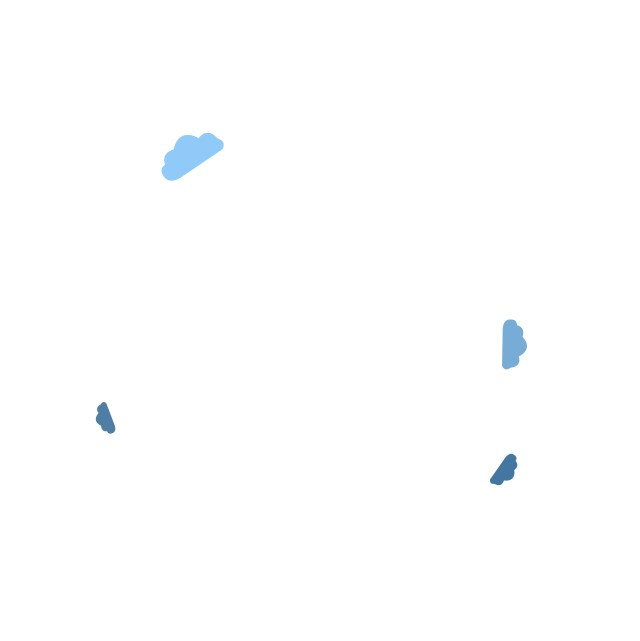
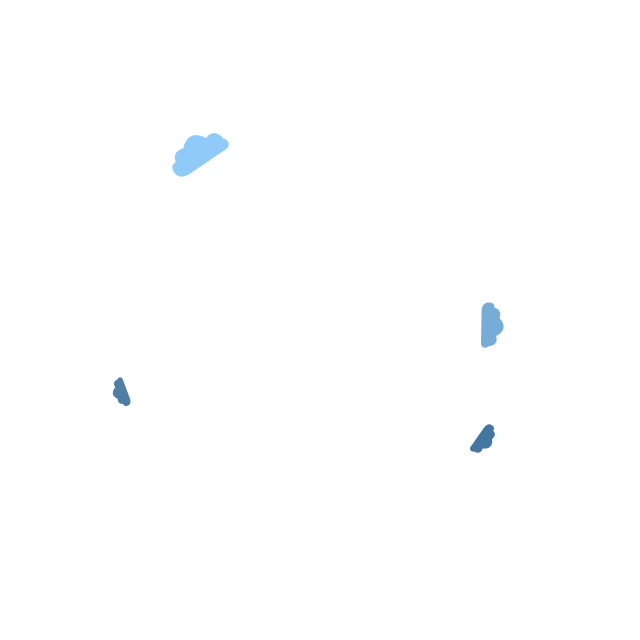
引导页地球动画

diff --git a/tour.css b/tour.css
@@ -193,6 +193,112 @@
   background-size: 300px 300px;
   width: 300px;
   height: 300px;
+  animation-name: myfirst;
+  animation-duration: 35s;
+  animation-timing-function: linear;
+  animation-delay: 0s;
+  animation-iteration-count: infinite;
+  animation-direction: normal;
+  animation-play-state: running;
+  /* Firefox: */
+  -moz-animation-name: myfirst;
+  -moz-animation-duration: 35s;
+  -moz-animation-timing-function: linear;
+  -moz-animation-delay: 0s;
+  -moz-animation-iteration-count: infinite;
+  -moz-animation-direction: normal;
+  -moz-animation-play-state: running;
+  /* Safari and Chrome: */
+  -webkit-animation-name: myfirst;
+  -webkit-animation-duration: 35s;
+  -webkit-animation-timing-function: linear;
+  -webkit-animation-delay: 0s;
+  -webkit-animation-iteration-count: infinite;
+  -webkit-animation-direction: normal;
+  -webkit-animation-play-state: running;
+}
+@keyframes myfirst {
+  0% {
+    transform: rotate(0deg);
+    width: 300px;
+    height: 300px;
+  }
+  25% {
+    transform: rotate(90deg);
+    width: 300px;
+    height: 300px;
+  }
+  50% {
+    transform: rotate(180deg);
+    width: 300px;
+    height: 300px;
+  }
+  75% {
+    transform: rotate(270deg);
+    width: 300px;
+    height: 300px;
+  }
+  100% {
+    transform: rotate(360deg);
+    width: 300px;
+    height: 300px;
+  }
+}
+/* Firefox: */
+@-moz-keyframes myfirst {
+  0% {
+    transform: rotate(0deg);
+    width: 300px;
+    height: 300px;
+  }
+  25% {
+    transform: rotate(90deg);
+    width: 300px;
+    height: 300px;
+  }
+  50% {
+    transform: rotate(180deg);
+    width: 300px;
+    height: 300px;
+  }
+  75% {
+    transform: rotate(270deg);
+    width: 300px;
+    height: 300px;
+  }
+  100% {
+    transform: rotate(360deg);
+    width: 300px;
+    height: 300px;
+  }
+}
+/* Safari and Chrome: */
+@-webkit-keyframes myfirst {
+  0% {
+    transform: rotate(0deg);
+    width: 300px;
+    height: 300px;
+  }
+  25% {
+    transform: rotate(90deg);
+    width: 300px;
+    height: 300px;
+  }
+  50% {
+    transform: rotate(180deg);
+    width: 300px;
+    height: 300px;
+  }
+  75% {
+    transform: rotate(270deg);
+    width: 300px;
+    height: 300px;
+  }
+  100% {
+    transform: rotate(360deg);
+    width: 300px;
+    height: 300px;
+  }
 }
 #earth {
   position: absolute;
@@ -211,6 +317,29 @@
   background-size: 300px 300px;
   width: 300px;
   height: 300px;
+  animation-name: myfirst;
+  animation-duration: 80s;
+  animation-timing-function: linear;
+  animation-delay: 0s;
+  animation-iteration-count: infinite;
+  animation-direction: normal;
+  animation-play-state: running;
+  /* Firefox: */
+  -moz-animation-name: myfirst;
+  -moz-animation-duration: 80s;
+  -moz-animation-timing-function: linear;
+  -moz-animation-delay: 0s;
+  -moz-animation-iteration-count: infinite;
+  -moz-animation-direction: normal;
+  -moz-animation-play-state: running;
+  /* Safari and Chrome: */
+  -webkit-animation-name: myfirst;
+  -webkit-animation-duration: 80s;
+  -webkit-animation-timing-function: linear;
+  -webkit-animation-delay: 0s;
+  -webkit-animation-iteration-count: infinite;
+  -webkit-animation-direction: normal;
+  -webkit-animation-play-state: running;
 }
 /*
 .card{

diff --git a/tour.less b/tour.less
@@ -211,7 +211,60 @@
 	background-size: 300px 300px;
 	width: 300px;
 	height: 300px;
+
+	animation-name:myfirst;
+	animation-duration:35s;
+	animation-timing-function:linear;
+	animation-delay:0s;
+	animation-iteration-count:infinite;
+	animation-direction:normal;
+	animation-play-state:running;
+	/* Firefox: */
+	-moz-animation-name:myfirst;
+	-moz-animation-duration:35s;
+	-moz-animation-timing-function:linear;
+	-moz-animation-delay:0s;
+	-moz-animation-iteration-count:infinite;
+	-moz-animation-direction:normal;
+	-moz-animation-play-state:running;
+	/* Safari and Chrome: */
+	-webkit-animation-name:myfirst;
+	-webkit-animation-duration:35s;
+	-webkit-animation-timing-function:linear;
+	-webkit-animation-delay:0s;
+	-webkit-animation-iteration-count:infinite;
+	-webkit-animation-direction:normal;
+	-webkit-animation-play-state:running;
 }
+
+@keyframes myfirst{
+	0%   {transform:rotate(0deg); width: 300px; height: 300px;}
+	25%  {transform:rotate(90deg); width: 300px; height: 300px;}
+	50%  {transform:rotate(180deg); width: 300px; height: 300px;}
+	75%  {transform:rotate(270deg); width: 300px; height: 300px;}
+	100% {transform:rotate(360deg); width: 300px; height: 300px;}
+}
+/* Firefox: */
+@-moz-keyframes myfirst{
+	0%   {transform:rotate(0deg); width: 300px; height: 300px;}
+	25%  {transform:rotate(90deg); width: 300px; height: 300px;}
+	50%  {transform:rotate(180deg); width: 300px; height: 300px;}
+	75%  {transform:rotate(270deg); width: 300px; height: 300px;}
+	100% {transform:rotate(360deg); width: 300px; height: 300px;}
+}
+/* Safari and Chrome: */
+@-webkit-keyframes myfirst{
+	0%   {transform:rotate(0deg); width: 300px; height: 300px;}
+	25%  {transform:rotate(90deg); width: 300px; height: 300px;}
+	50%  {transform:rotate(180deg); width: 300px; height: 300px;}
+	75%  {transform:rotate(270deg); width: 300px; height: 300px;}
+	100% {transform:rotate(360deg); width: 300px; height: 300px;}
+}
+
+
+
+
+
 
 #earth{
 	position: absolute;
@@ -231,6 +284,30 @@
 	background-size: 300px 300px;
 	width: 300px;
 	height: 300px;
+
+	animation-name:myfirst;
+	animation-duration:80s;
+	animation-timing-function:linear;
+	animation-delay:0s;
+	animation-iteration-count:infinite;
+	animation-direction:normal;
+	animation-play-state:running;
+	/* Firefox: */
+	-moz-animation-name:myfirst;
+	-moz-animation-duration:80s;
+	-moz-animation-timing-function:linear;
+	-moz-animation-delay:0s;
+	-moz-animation-iteration-count:infinite;
+	-moz-animation-direction:normal;
+	-moz-animation-play-state:running;
+	/* Safari and Chrome: */
+	-webkit-animation-name:myfirst;
+	-webkit-animation-duration:80s;
+	-webkit-animation-timing-function:linear;
+	-webkit-animation-delay:0s;
+	-webkit-animation-iteration-count:infinite;
+	-webkit-animation-direction:normal;
+	-webkit-animation-play-state:running;
 }
 
 
